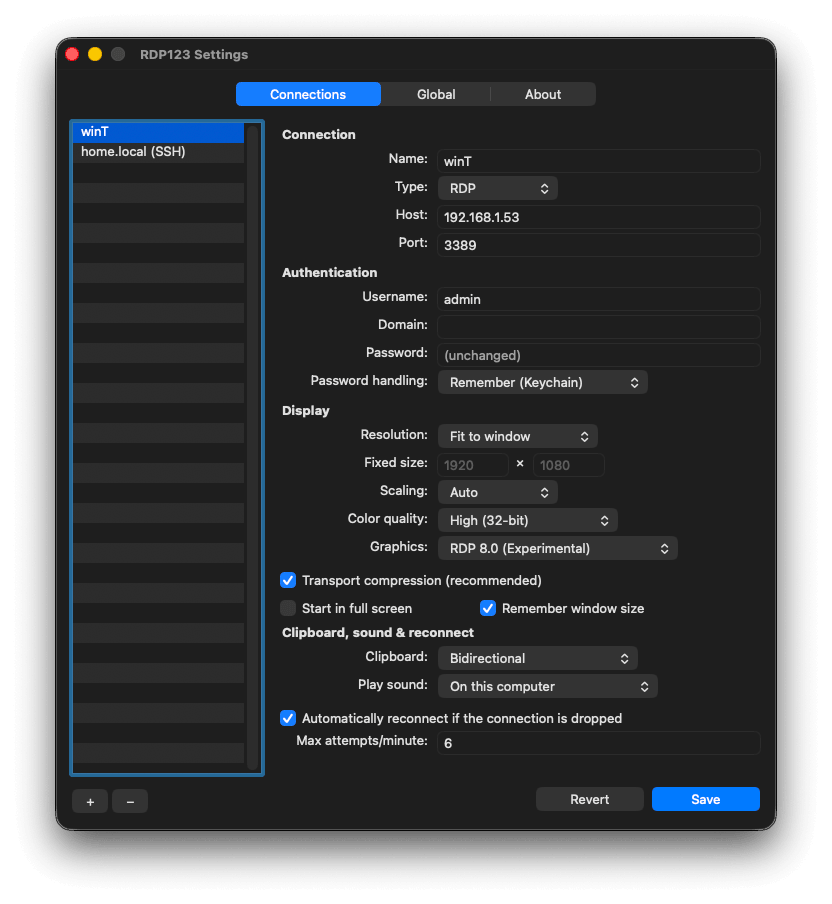
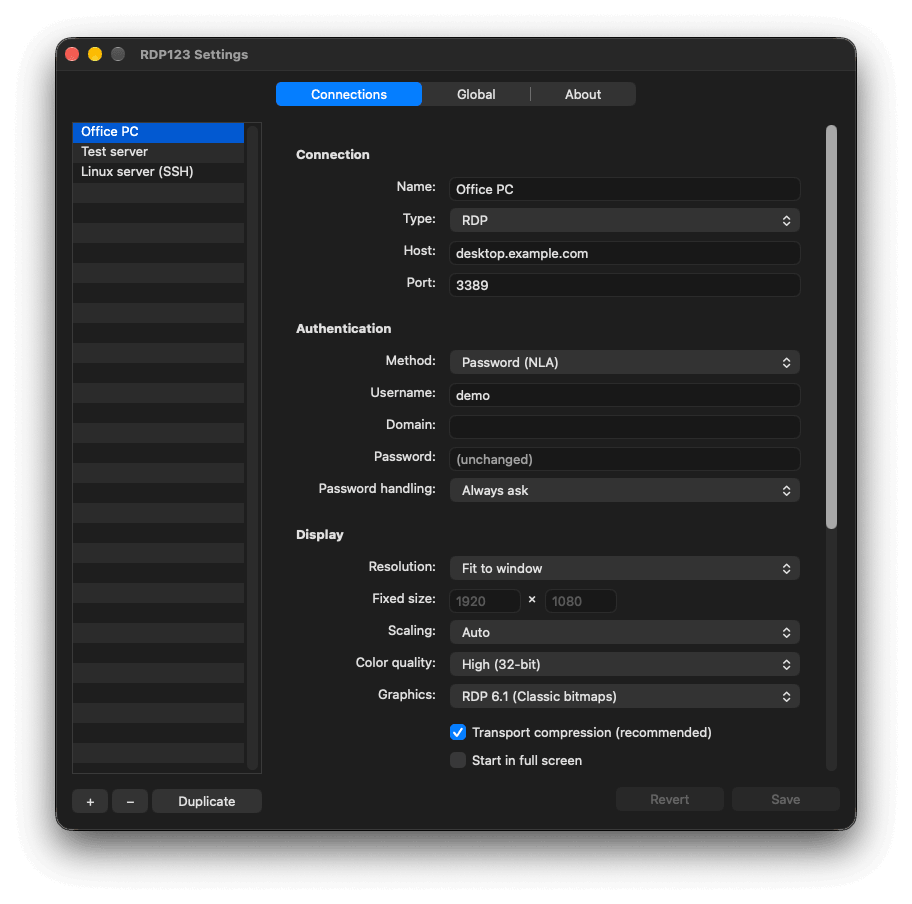
Update RDP123 pages with downloads, features and screenshots

diff --git a/src/pages/rdp123.html b/src/pages/rdp123.html
@@ -7,30 +7,30 @@
     <link rel="icon" type="image/png" sizes="32x32" href="/favicon-32.png">
     <link rel="icon" type="image/png" sizes="16x16" href="/favicon-16.png">
     <link rel="apple-touch-icon" href="/apple-touch-icon.png">
-    <title>RDP123 - Minimal, Fast RDP Client for macOS | ASD123.ai</title>
-    <meta name="description" content="Connect to Windows from your Mac. Manage remote sessions in native windows, with shared clipboard and secure password storage.">
+    <title>RDP123 - Native Remote Desktop for Mac | ASD123.ai</title>
+    <meta name="description" content="A lightweight, native remote desktop client for Mac. Manage Windows connections, share text and files, and launch SSH sessions from the menu bar.">
     <meta name="keywords" content="rdp client macos, remote desktop mac, rust rdp client, lightweight rdp client, microsoft remote desktop alternative mac, rdp123">
     <meta name="author" content="ASD123.ai">
     <meta name="robots" content="index, follow">
-    <meta property="og:title" content="RDP123 - Minimal, Fast RDP Client for macOS | ASD123.ai">
-    <meta property="og:description" content="Connect to Windows from your Mac. Manage remote sessions in native windows, with shared clipboard and secure password storage.">
+    <meta property="og:title" content="RDP123 - Native Remote Desktop for Mac | ASD123.ai">
+    <meta property="og:description" content="A lightweight, native remote desktop client for Mac. Manage Windows connections, share text and files, and launch SSH sessions from the menu bar.">
     <meta property="og:type" content="website">
     <meta property="og:url" content="https://asd123.ai/rdp123">
     <meta property="og:site_name" content="ASD123.ai">
     <meta property="og:locale" content="en_US">
     <meta name="twitter:card" content="summary_large_image">
-    <meta name="twitter:title" content="RDP123 - Minimal, Fast RDP Client for macOS | ASD123.ai">
-    <meta name="twitter:description" content="Connect to Windows from your Mac. Manage remote sessions in native windows, with shared clipboard and secure password storage.">
+    <meta name="twitter:title" content="RDP123 - Native Remote Desktop for Mac | ASD123.ai">
+    <meta name="twitter:description" content="A lightweight, native remote desktop client for Mac. Manage Windows connections, share text and files, and launch SSH sessions from the menu bar.">
     <link rel="canonical" href="https://asd123.ai/rdp123">
     <link rel="preload" href="/fonts/inter-latin.woff2" as="font" type="font/woff2" crossorigin>
     <link rel="stylesheet" href="styles/main.css">
     <link rel="stylesheet" href="styles/components.css">
     <script src="scripts/shared.js"></script>
-    <meta property="og:image" content="https://asd123.ai/og-image.png">
-    <meta property="og:image:width" content="1200">
-    <meta property="og:image:height" content="630">
-    <meta property="og:image:alt" content="ASD123.ai - private AI text tools, 100% in your browser">
-    <meta name="twitter:image" content="https://asd123.ai/og-image.png">
+    <meta property="og:image" content="https://asd123.ai/apps/rdp123-session.png">
+    <meta property="og:image:width" content="1217">
+    <meta property="og:image:height" content="827">
+    <meta property="og:image:alt" content="RDP123: a remote Windows desktop in a native Mac window">
+    <meta name="twitter:image" content="https://asd123.ai/apps/rdp123-session.png">
     <script type="application/ld+json">
     {
       "@context": "https://schema.org",
@@ -53,7 +53,7 @@
           "@id": "https://asd123.ai/#website",
           "url": "https://asd123.ai/",
           "name": "ASD123.ai",
-          "description": "Connect to Windows from your Mac. Manage remote sessions in native windows, with shared clipboard and secure password storage.",
+          "description": "A lightweight, native remote desktop client for Mac. Manage Windows connections, share text and files, and launch SSH sessions from the menu bar.",
           "publisher": {
             "@id": "https://asd123.ai/#organization"
           },
@@ -62,8 +62,8 @@
         {
           "@type": "WebPage",
           "@id": "https://asd123.ai/rdp123#webpage",
-          "name": "RDP123 - Minimal, Fast RDP Client for macOS | ASD123.ai",
-          "description": "Connect to Windows from your Mac. Manage remote sessions in native windows, with shared clipboard and secure password storage.",
+          "name": "RDP123 - Native Remote Desktop for Mac | ASD123.ai",
+          "description": "A lightweight, native remote desktop client for Mac. Manage Windows connections, share text and files, and launch SSH sessions from the menu bar.",
           "url": "https://asd123.ai/rdp123",
           "inLanguage": "en",
           "isPartOf": {
@@ -97,10 +97,10 @@
           "@type": "SoftwareApplication",
           "@id": "https://asd123.ai/rdp123#app",
           "name": "RDP123",
-          "description": "Connect to Windows from your Mac. Manage remote sessions in native windows, with shared clipboard and secure password storage.",
+          "description": "A lightweight, native remote desktop client for Mac. Manage Windows connections, share text and files, and launch SSH sessions from the menu bar.",
           "url": "https://asd123.ai/rdp123",
           "applicationCategory": "UtilitiesApplication",
-          "operatingSystem": "macOS 11 or newer",
+          "operatingSystem": "macOS 11 or newer, Apple Silicon",
           "license": "https://www.gnu.org/licenses/agpl-3.0.html",
           "offers": {
             "@type": "Offer",
@@ -109,9 +109,10 @@
           },
           "screenshot": [
             "https://asd123.ai/apps/rdp123-session.png",
-            "https://asd123.ai/apps/rdp123-settings.png"
+            "https://asd123.ai/apps/rdp123-settings.png",
+            "https://asd123.ai/apps/rdp123-global.png"
           ],
-          "downloadUrl": "https://github.com/asd123ch/rdp123",
+          "downloadUrl": "https://github.com/asd123ch/rdp123/releases/latest",
           "author": {
             "@id": "https://asd123.ai/#organization"
           }
@@ -175,17 +176,61 @@
         </header>
 
         <main id="main" role="main" class="product-page">
-            <div class="page-header"><div class="product-heading"><img class="product-logo" src="/apps/rdp123-logo.png" alt="" width="56" height="56"><h1 class="page-title">RDP123</h1></div><p class="page-subtitle">Connect to Windows from your Mac. Manage remote sessions in native windows, with shared clipboard and secure password storage.</p></div>
-            <section class="product-intro liquid-glass" aria-label="Requirements and installation">
-                <ul class="product-facts"><li>Native macOS app. macOS 11 or newer, Apple Silicon or Intel.</li><li>Free, open-source software. Build it on your Mac with Rust and Xcode Command Line Tools.</li><li>Connects to your remote computer. Passwords can be stored in macOS Keychain.</li></ul>
-                <div class="product-actions"><a class="btn btn-primary" href="https://github.com/asd123ch/rdp123#build--install">Build &amp; install RDP123</a><a class="btn btn-secondary" href="/apps">All Apps</a></div>
+            <div class="page-header">
+                <div class="product-heading"><img class="product-logo" src="/apps/rdp123-logo.png" alt="" width="56" height="56"><h1 class="page-title">RDP123</h1></div>
+                <p class="page-subtitle">A lightweight, native remote desktop client for Mac. Manage Windows connections, share text and files, and launch SSH sessions from the menu bar.</p>
+            </div>
+            <section class="product-intro liquid-glass" aria-labelledby="install-heading">
+                <h2 id="install-heading">Install and connect</h2>
+                <ul class="product-facts">
+                    <li>For Apple Silicon Macs running macOS 11 or newer.</li>
+                    <li>Free and open source. Signed downloads, notarized by Apple.</li>
+                    <li>Your Windows computer must accept Remote Desktop connections.</li>
+                </ul>
+                <div class="product-actions">
+                    <a class="btn btn-primary" href="https://github.com/asd123ch/rdp123/releases/latest">Download for macOS</a>
+                    <a class="btn btn-secondary" href="https://github.com/asd123ch/rdp123#readme">Guide &amp; source code</a>
+                </div>
+                <p class="workflow-hint">Download the DMG and drag RDP123 into Applications. Or install with Homebrew:</p>
+                <pre class="product-install-command"><code>brew install --cask asd123ch/tap/rdp123</code></pre>
+                <p>Open RDP123, choose Settings from the menu bar, and add your first connection.</p>
             </section>
-            <figure class="product-screenshot liquid-glass"><a href="/apps/rdp123-session.png" target="_blank" rel="noopener"><img src="/apps/rdp123-session.png" alt="A Windows desktop connected through RDP123 on a Mac" loading="lazy"></a><figcaption class="workflow-hint">A Windows desktop connected through RDP123 on a Mac. Open the image to enlarge it.</figcaption></figure>
-            <section class="product-intro liquid-glass"><h2>Work with several remote computers</h2><p>Each session has its own window and appears in the Dock and Cmd+Tab. Switch between computers as you would between other Mac windows.</p></section>
-            <section class="product-intro liquid-glass"><h2>Copy text, files and folders</h2><p>Copy between Finder and Windows Explorer, share text through the clipboard, and play remote audio on your Mac. Clipboard access is configurable per connection.</p></section>
-            <section class="product-intro liquid-glass"><h2>Connect with your existing account</h2><p>Use a password or Microsoft Entra authentication. Entra requires a compatible joined Windows 11 host and its hostname. Its sign-in opens the system WebKit view.</p></section>
-            <section class="product-intro liquid-glass"><h2>Start with one connection</h2><p>Build and install the app, open Settings from the menu bar, and add your Windows computer. Review the server identity on first connection. The installation guide explains permissions and signing.</p></section>
-            <div class="product-actions"><a class="btn btn-primary" href="https://github.com/asd123ch/rdp123#readme" target="_blank" rel="noopener">Installation &amp; source code</a><a class="btn btn-secondary" href="/apps">All Apps</a></div>
+            <section class="product-intro liquid-glass" aria-labelledby="sessions-heading">
+                <h2 id="sessions-heading">Your Windows desktop in a Mac window</h2>
+                <p>Open several remote computers in separate native windows. Switch between sessions through the Dock or Cmd+Tab, resize them, or work in full screen. When the last session closes, RDP123 returns to the menu bar.</p>
+            </section>
+            <figure class="product-screenshot liquid-glass">
+                <a href="/apps/rdp123-session.png" target="_blank" rel="noopener" aria-label="Enlarge the remote Windows desktop screenshot"><img src="/apps/rdp123-session.png" alt="A Windows 11 desktop in a native RDP123 window on Mac" width="1217" height="827" loading="lazy"></a>
+                <figcaption class="workflow-hint">A remote Windows desktop. Select any screenshot to enlarge it.</figcaption>
+            </figure>
+            <section class="product-intro liquid-glass" aria-labelledby="connections-heading">
+                <h2 id="connections-heading">Keep your connections in one place</h2>
+                <p>Save and duplicate RDP profiles, or add SSH profiles that open in your preferred terminal. Each RDP connection has its own display, clipboard and audio settings. Automatic reconnect and Wake on LAN are available when you need them.</p>
+                <p>Sign in with a password or Microsoft Entra, including MFA. Entra requires a compatible Entra-joined Windows 11 computer and its hostname.</p>
+            </section>
+            <figure class="product-screenshot product-screenshot--settings liquid-glass">
+                <a href="/apps/rdp123-settings.png" target="_blank" rel="noopener" aria-label="Enlarge the connection settings screenshot"><img src="/apps/rdp123-settings.png" alt="RDP123 connection profiles with host, sign-in and display settings" width="912" height="904" loading="lazy"></a>
+                <figcaption class="workflow-hint">Save RDP and SSH profiles and adjust each connection.</figcaption>
+            </figure>
+            <section class="product-intro liquid-glass" aria-labelledby="clipboard-heading">
+                <h2 id="clipboard-heading">Copy, paste and dictate</h2>
+                <p>Copy text, files and folders between Mac and Windows. Enable familiar Mac shortcuts such as Cmd+C and Cmd+V, or allow speech-to-text apps to paste dictated text into the active remote app.</p>
+                <p>Choose your SSH terminal, keyboard options and startup preferences in Global settings. Clipboard access can be restricted or disabled for each connection.</p>
+            </section>
+            <figure class="product-screenshot product-screenshot--settings liquid-glass">
+                <a href="/apps/rdp123-global.png" target="_blank" rel="noopener" aria-label="Enlarge the global settings screenshot"><img src="/apps/rdp123-global.png" alt="Global settings for SSH terminals, Mac keyboard shortcuts, speech-to-text paste and startup" width="912" height="904" loading="lazy"></a>
+                <figcaption class="workflow-hint">Set up Mac shortcuts, dictation and your preferred SSH terminal.</figcaption>
+            </figure>
+            <section class="product-intro liquid-glass" aria-labelledby="privacy-heading">
+                <h2 id="privacy-heading">Your connections, your control</h2>
+                <p>Passwords can be saved in macOS Keychain or entered for each connection. RDP123 asks you to trust a new server key before signing in and warns if it changes. No telemetry or account registration.</p>
+                <p>RDP connects to your configured computer; Entra sign-in contacts Microsoft. Optional daily update checks contact GitHub and can be turned off. Updates are downloaded and installed by you.</p>
+                <p class="workflow-hint">For everyday direct connections to Windows. Multi-monitor support and microphone forwarding are not available. See the guide for compatibility details.</p>
+            </section>
+            <div class="product-actions">
+                <a class="btn btn-primary" href="https://github.com/asd123ch/rdp123/releases/latest">Download for macOS</a>
+                <a class="btn btn-secondary" href="/apps">All Apps</a>
+            </div>
         </main>
         <footer role="contentinfo">
             <div class="footer-content">

diff --git a/src/styles/components.css b/src/styles/components.css
@@ -6071,12 +6071,16 @@ main#main.product-page { max-width: 1000px; }
 .product-logo { width: 56px; height: 56px; flex-shrink: 0; border-radius: 12px; }
 .product-intro, .product-screenshot { padding: var(--space-8); margin: 0 0 var(--space-6); width: 100%; }
 .product-intro h2 { font-size: var(--text-2xl); font-weight: 900; margin-bottom: var(--space-4); color: var(--text-primary); }
+.product-intro p + p { margin-top: var(--space-4); }
 .product-intro p, .product-facts { color: var(--text-secondary); line-height: 1.7; }
 .product-facts { margin: 0; padding-left: 1.25rem; }
 .product-facts li + li { margin-top: .5rem; }
 .product-intro .product-actions { margin-bottom: 0; }
 .product-screenshot > a { display: block; }
 .product-screenshot img { display: block; max-width: 100%; height: auto; margin-inline: auto; }
+.product-screenshot--settings img { width: 640px; }
+.product-install-command { margin-block: 1rem; padding: 1rem; border: 1px solid var(--border-color); border-radius: 8px; color: var(--text-primary); overflow-x: auto; white-space: pre-wrap; overflow-wrap: anywhere; text-align: left; }
+.product-install-command code { font-size: .9rem; }
 .product-screenshot img[src*="rustquit"] { width: 642px; }
 .product-screenshot img[src*="photo-shot"] { width: 580px; }
 .product-screenshot figcaption { text-align: center; margin: 1rem auto 0; }

diff --git a/src/pages/index.html b/src/pages/index.html
@@ -237,7 +237,7 @@
                                 <h3 class="feature-title">RDP123</h3>
                             </div>
                         </div>
-                        <p class="feature-description">Connect to Windows from your Mac. Manage remote sessions in native windows, with shared clipboard and secure password storage.</p>
+                        <p class="feature-description">A lightweight remote desktop client for Mac. Connect to Windows, copy text and files, and launch SSH sessions in your preferred terminal.</p>
                     </a>
                     <a href="/photo-shot" class="feature-card">
                         <div class="feature-header">

diff --git a/src/pages/apps.html b/src/pages/apps.html
@@ -179,7 +179,7 @@
                             <h2 class="feature-title">RDP123</h2>
                         </div>
                     </div>
-                    <p class="feature-description">Connect to Windows from your Mac. Manage remote sessions in native windows, with shared clipboard and secure password storage.</p>
+                    <p class="feature-description">A lightweight remote desktop client for Mac. Connect to Windows, copy text and files, and launch SSH sessions in your preferred terminal.</p>
                 </a>
 
                 <a href="/photo-shot" class="feature-card">
